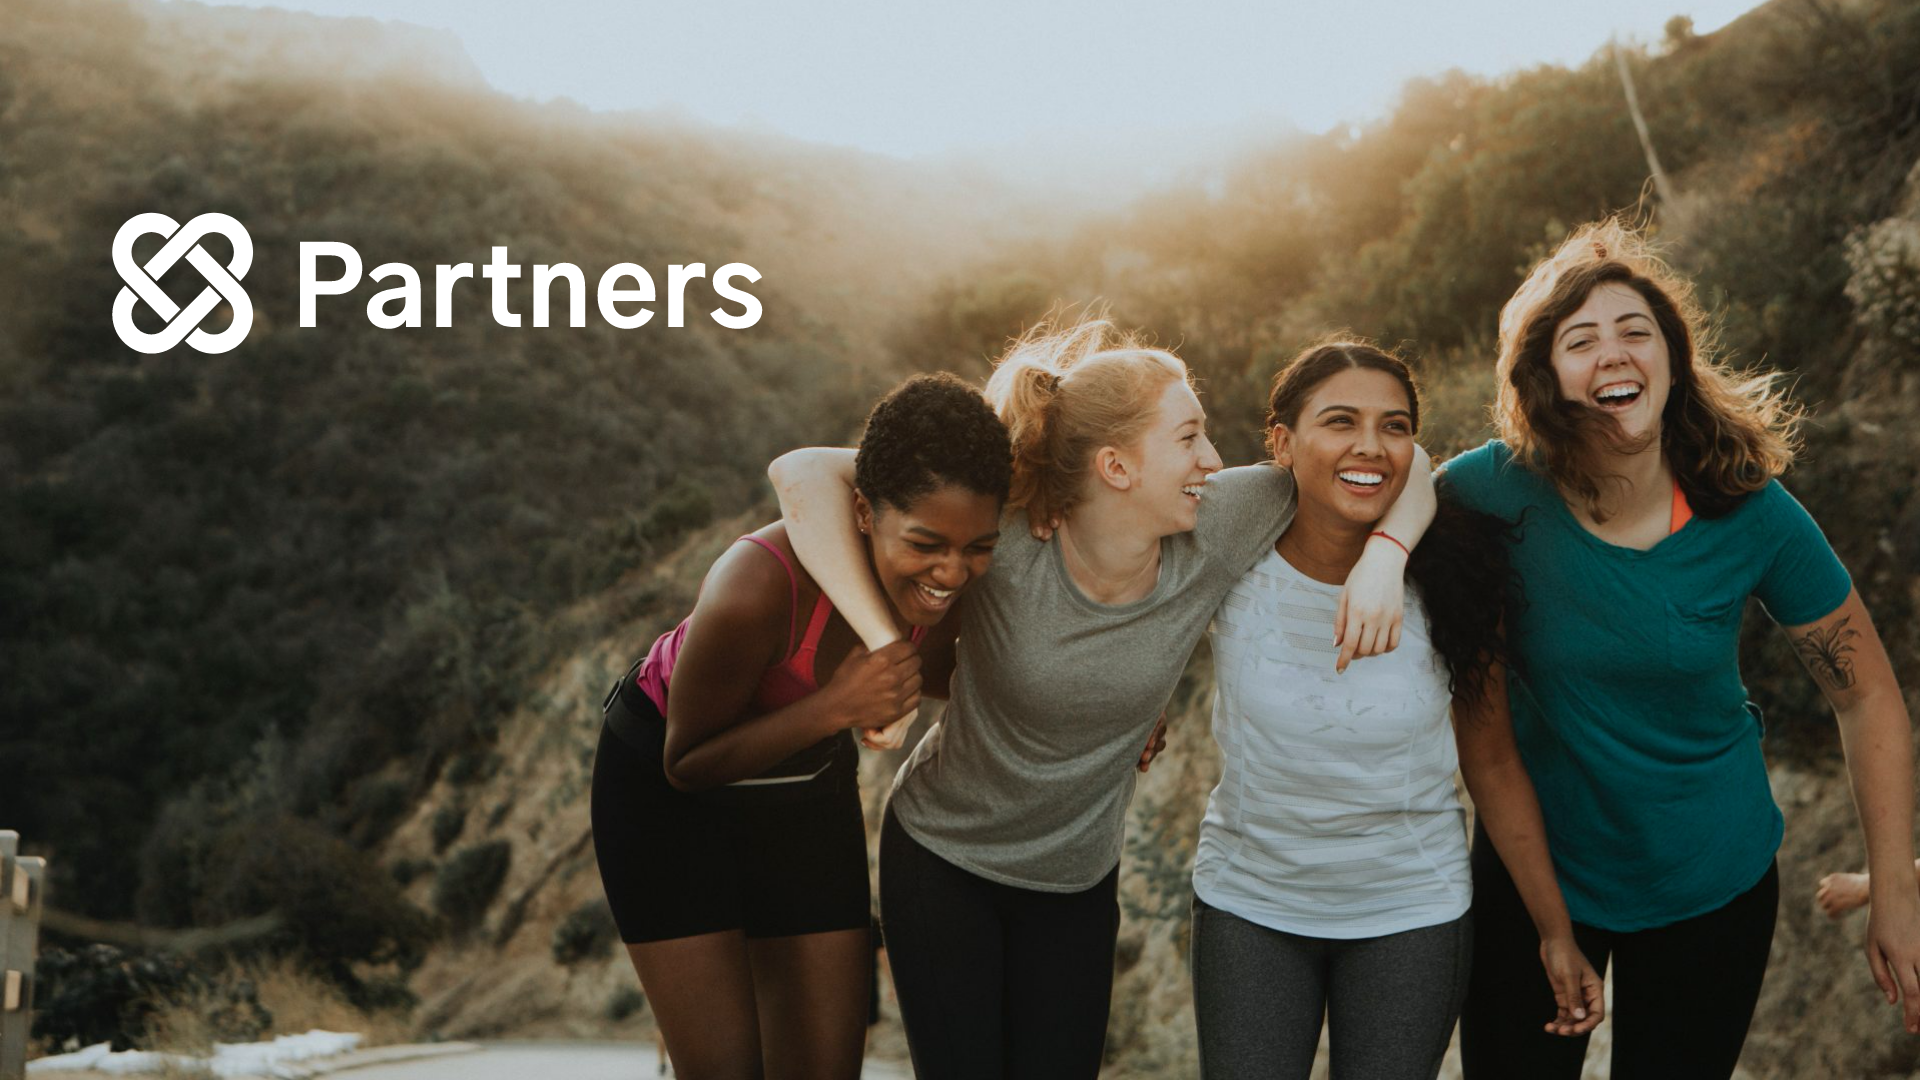
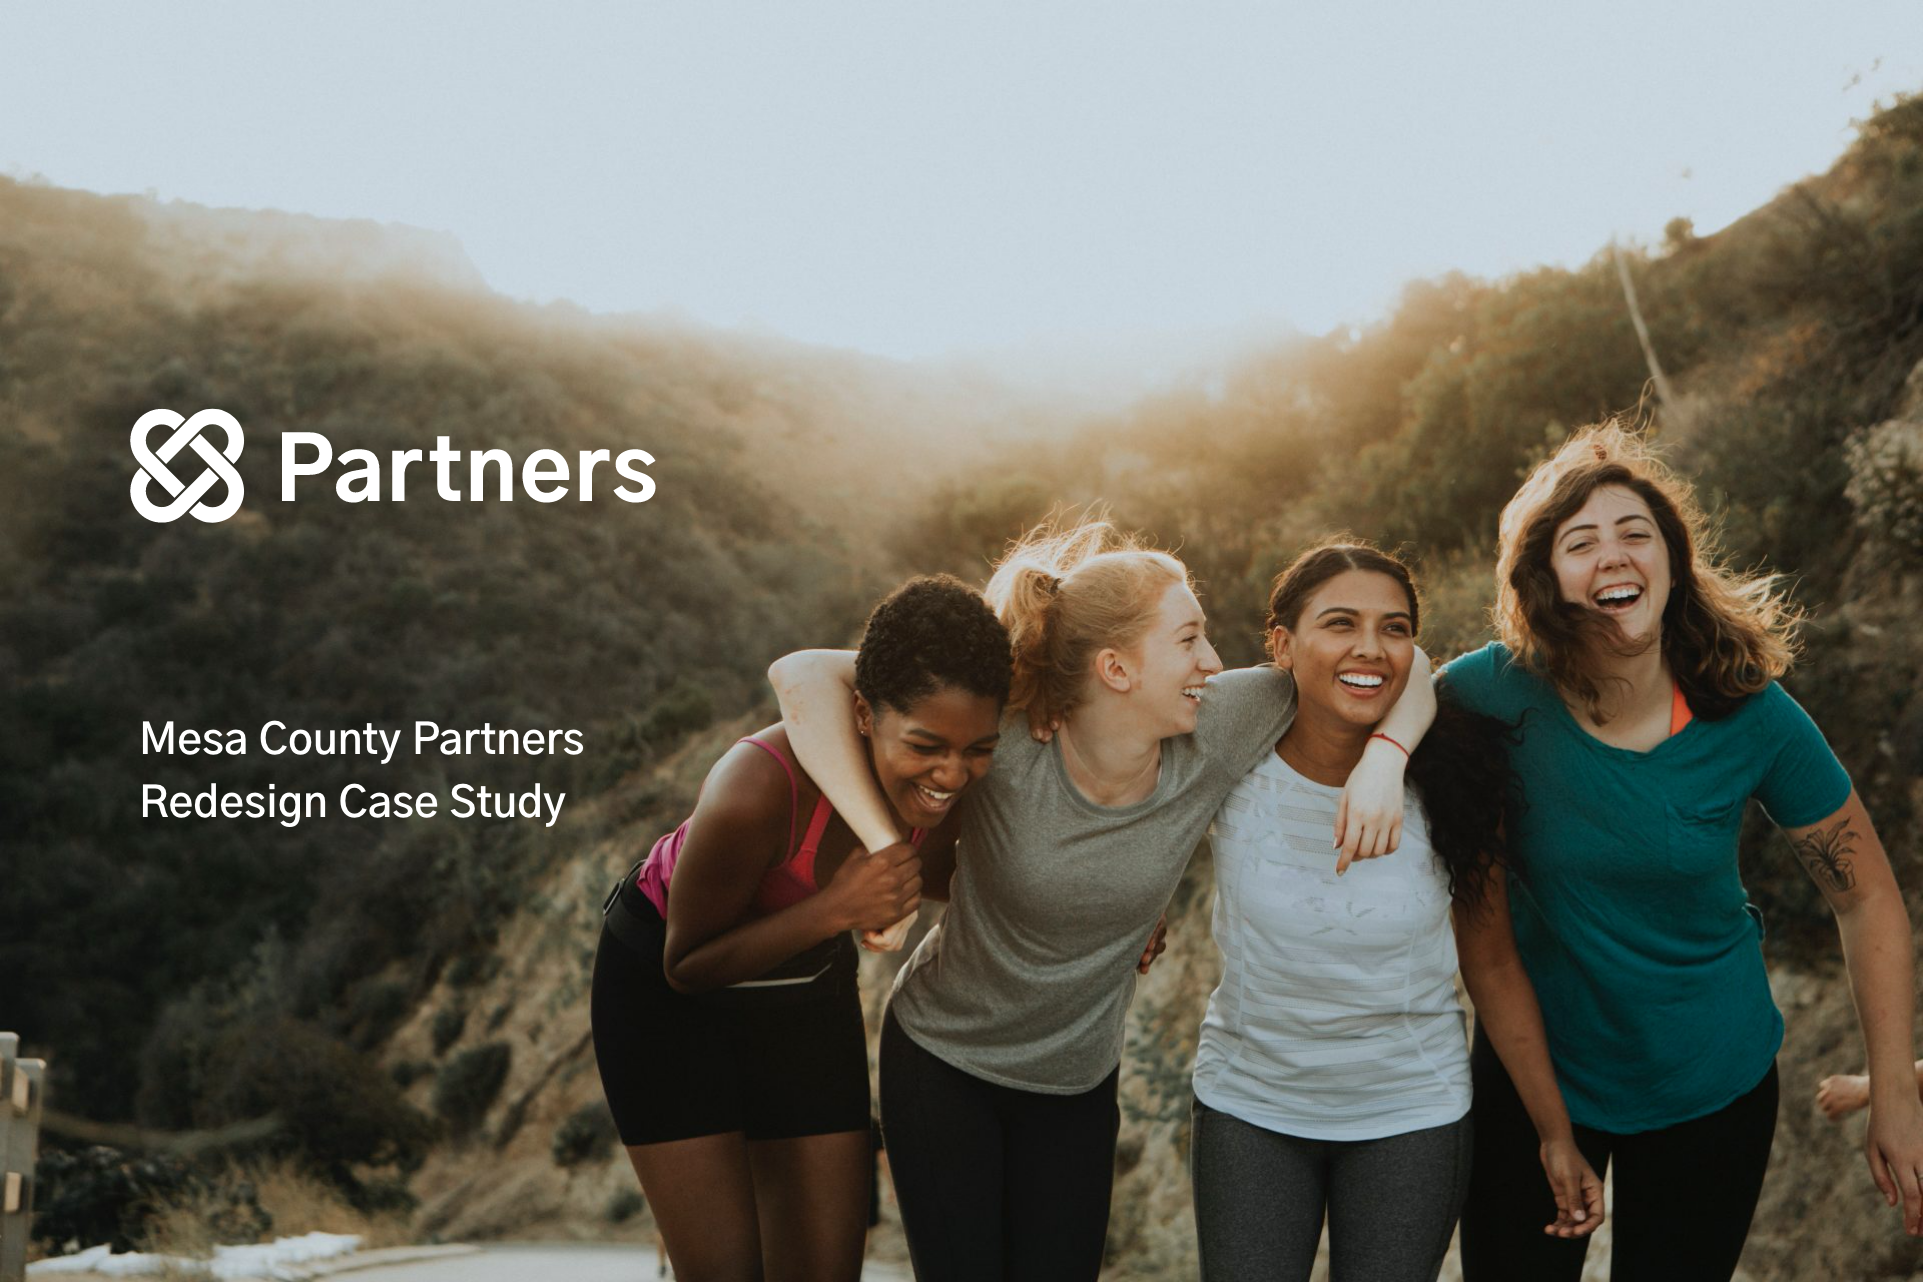
update

diff --git a/index.html b/index.html
@@ -63,17 +63,15 @@
   
     <!-- HERO / JUMBOTRON -->
     <section>
-    <div class="jumbotron rockBackground img-fluid">
-     
-        <div class="jumboCopy">
-          <div class="mesaLogo"> 
-            <img src="images/PartnersLogo.png" class="mesaLogo">
-        </div>
-          <h1 class="display-4 font-weight-normal titleMesa1">Mesa County Partners</h1>
-          <h3 class="display-8 font-weight-normal titleMesa2">Redesign Case Study</h3>
-          
-        </div>
+    <div class="container-fluid">
+      <div class="row row-cols-1">
+        
+      
+      
+        <img  src="images/_MesaCountyCover.png" class="mesaBackdrop">
       </div>
+    </div>
+  </div>
     </section>
 
 <!-- PROB STATEMENT / SOLUTION -->

diff --git a/css/index.css b/css/index.css
@@ -79,7 +79,7 @@ font-weight: 400 !important;
   }
 
 .rockBackground {
-  background-image: url("../images/_MesaCountyCover2.png");
+
   background-size:cover;
   background-repeat: no-repeat ;
   height: 80vh;
@@ -87,8 +87,17 @@ font-weight: 400 !important;
   z-index: -20 ;*/
 }
 
+.mesaBackdrop{
+  position:relative !important;
+  z-index: -50 !important;
+}
+.MesaTitleBeginning1{
+  z-index: 999;
+}
+
+
 .mesaLogo {
-        width:75%;
+        width:2000px;
         display:flex;
   justify-content: flex-start ;
 
